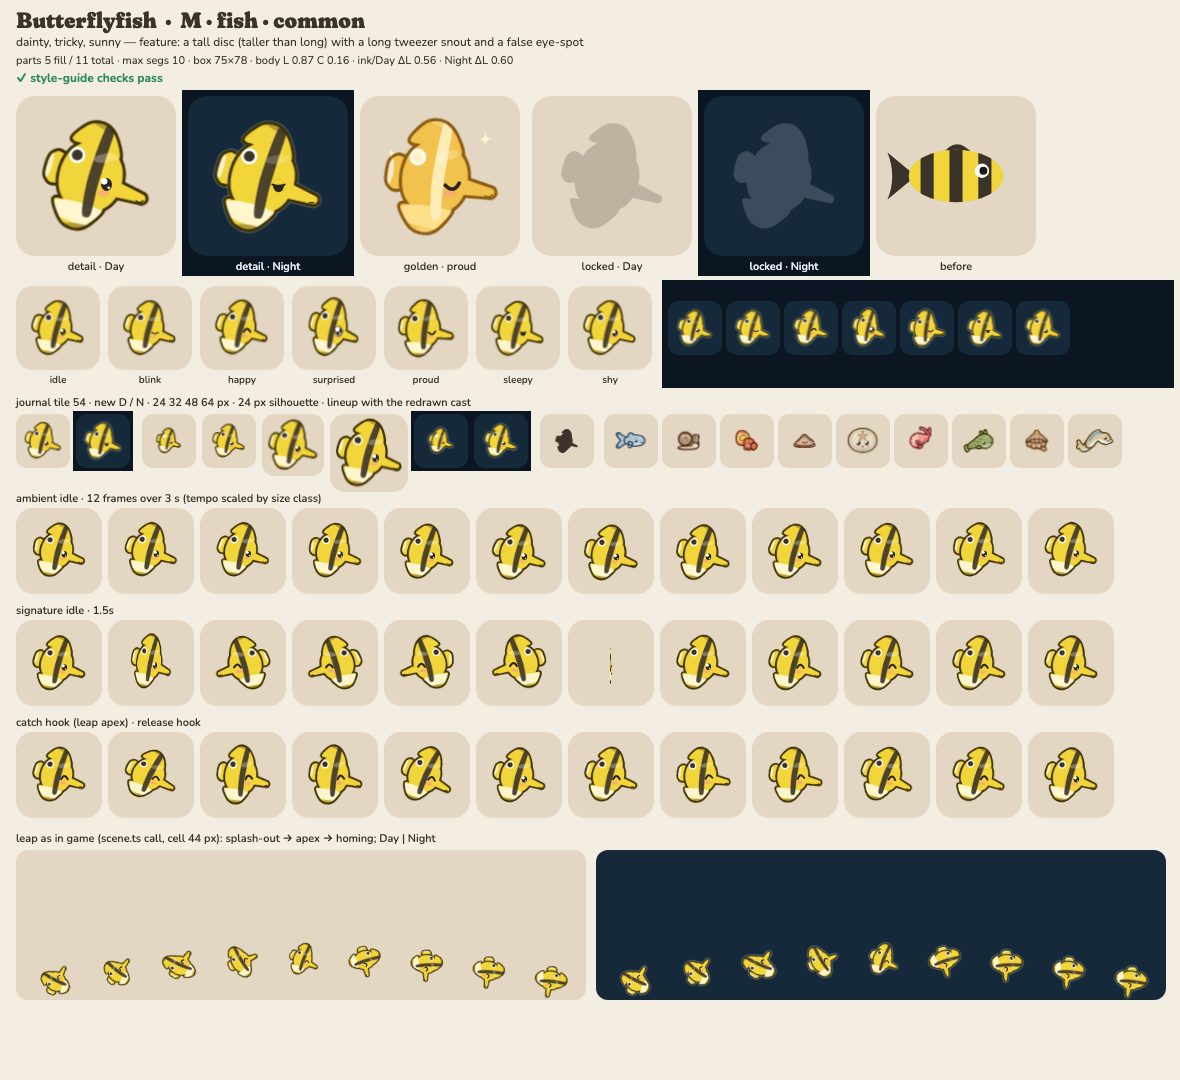
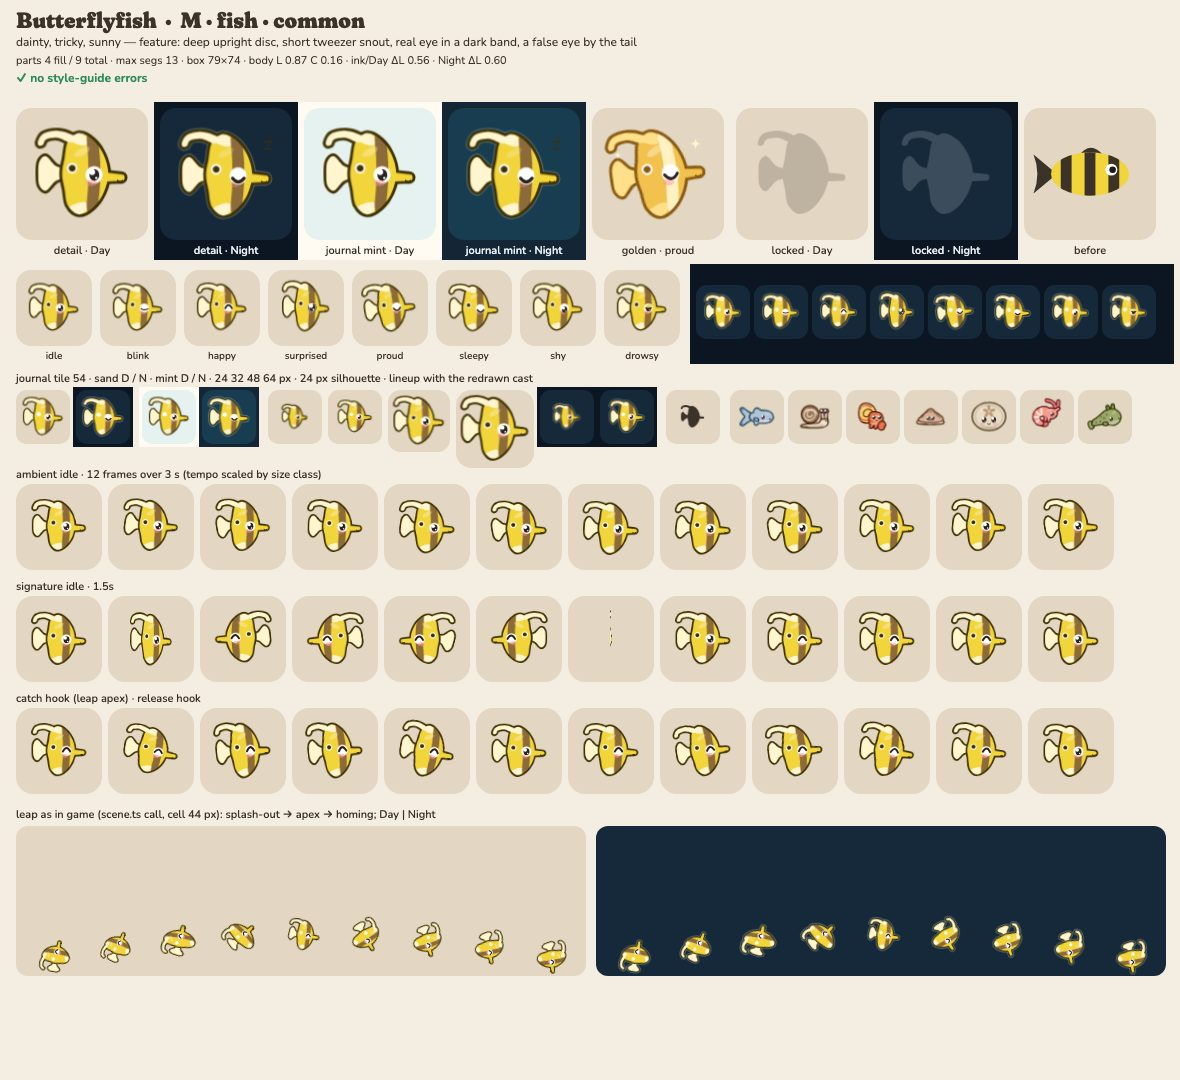
render: butterfly art redo — level upright disc, eye in the mask, false eye by the tail (ADR 0011)
CRITIQUE-1 D: level (1 deg), short straight tweezer snout, real eye in a white ring inside a mid-brown eye-band (not eye-coloured, R18E), pale fan tail on a narrow root, threadfin pennant, small ringed false eye near the tail. Lint clean. Closest: puffer 0.68, combjelly 0.67, damsel 0.66.

diff --git a/src/render/art/species/butterfly.ts b/src/render/art/species/butterfly.ts
@@ -1,132 +1,116 @@
 /**
- * Butterflyfish — the reef's little trickster (fish class, profile view).
- * Silhouette (R10): a disc taller than it is long (tall dorsal and anal fins), a long tweezer snout,
- * and a small rounded tail. The false eye-spot near the tail is the joke.
- * Personality: dainty, tricky, sunny. Signature: turns around to show off its false eye, turns back
- * and winks with the real one.
+ * Butterflyfish — the reef's little trickster (fish class, profile view, level).
+ * Silhouette (R10): a deep, upright disc (taller than long), a short straight tweezer snout, a narrow
+ * tail root and a clear pale fan tail. The real eye sits in a dark vertical eye-band (the classic
+ * mask) inside a white ring; a smaller ringed false eye near the tail is the joke.
+ * Personality: dainty, tricky, sunny. Signature: spins round to show the false eye, spins back and
+ * winks with the real one.
  */
-import { blob, capsule, circle, defineArt, ellipse, join, tube, xform } from '../kit.ts';
+import { blob, capsule, circle, defineArt, ellipse, join, tube } from '../kit.ts';
 
-// it hovers nose-down at a dainty TILT, tweezer snout picking at the reef: the pose that keeps the
-// tall disc apart from the sunfish and the round jellies at 24 px (R12)
-const TILT = 17;
-const R = (d: string) => xform(d, { rot: TILT });
-const tc = Math.cos((TILT * Math.PI) / 180),
-  ts = Math.sin((TILT * Math.PI) / 180);
-/** An anchor on the drawing grid, mapped like the paths. */
-const P = (x: number, y: number): [number, number] => [x * tc - y * ts, x * ts + y * tc];
-
-// the disc: a deep, nearly round body
-const body = blob([
-  [17, 0],
-  [13, -15],
-  [1, -25],
-  [-14, -26],
-  [-26, -16],
-  [-30, 0],
-  [-26, 16],
-  [-14, 26],
-  [1, 25],
-  [13, 15],
-]);
-// tall soft dorsal and anal fins, swept back: together the silhouette is taller than it is long
-const dorsal = blob(
+// the disc: deep and upright, soft dorsal/anal fins folded into one smooth outline
+const disc = blob(
   [
-    [9, -18],
-    [4, -32],
-    [-6, -40],
-    [-18, -38],
-    [-28, -24],
-    [-16, -22],
-  ],
-  0.95,
-);
-const anal = blob(
-  [
-    [8, 19],
-    [3, 32],
-    [-6, 39],
-    [-18, 37],
-    [-28, 23],
-    [-16, 21],
-  ],
-  0.95,
-);
-// the tweezer snout (rounded tip, R3)
-const snout = capsule(13, 3, 6, 34, 4, 3.2);
-const tail = blob(
-  [
-    [-27, -8],
-    [-34, -12],
-    [-39.5, -8],
-    [-40.5, 0],
-    [-39.5, 8],
-    [-34, 12],
-    [-27, 8],
-  ],
-  0.9,
-);
-// the eye band sits just behind the real eye; the small false eye near the tail is ringed in white
-const band = tube(
-  [
-    [-3, -38, 3.4],
-    [-4, -16, 4.2],
-    [-4, 6, 4.2],
-    [-2, 26, 3.4],
+    [18, 0],
+    [14, -17],
+    [4, -31],
+    [-9, -37],
+    [-19, -29],
+    [-22, -14],
+    [-24, -4],
+    [-24, 4],
+    [-22, 14],
+    [-19, 29],
+    [-9, 37],
+    [4, 31],
+    [14, 17],
   ],
   1,
 );
-const falseRing = circle(-21, -13, 6);
-const falseEye = circle(-21, -13, 4);
+// the threadfin's pennant: one plump filament trailing off the rear dorsal corner (rounded tip)
+const filament = tube(
+  [
+    [-16, -32, 3.6],
+    [-28, -36, 3.2],
+    [-40, -34, 3],
+    [-44, -28, 2.8],
+  ],
+  1,
+);
+// the short straight tweezer snout (rounded tip, R3)
+const snout = capsule(15, 3, 4.2, 30, 3.5, 3);
+// narrow tail root, then a clear fan tail in the pale fin colour
+const tail = blob(
+  [
+    [-21, -3.5],
+    [-30, -7],
+    [-39, -16],
+    [-45, -11],
+    [-46, 0],
+    [-45, 11],
+    [-39, 16],
+    [-30, 7],
+    [-21, 3.5],
+  ],
+  0.95,
+);
+// the eye-band: a vertical mask through the eye, mid-dark (never eye-coloured, R18E)
+const band = tube(
+  [
+    [3, -34, 4.6],
+    [5, -14, 5.4],
+    [5, 10, 5.4],
+    [3, 32, 4.6],
+  ],
+  1,
+);
+// white ring so the real eye pops out of its mask
+const ring = circle(5, 1, 7.8);
+// pale fin margins top and bottom at the back (they read as the soft dorsal/anal fins)
+const fins = join(ellipse(-12, -34, 13, 6, 30), ellipse(-12, 34, 13, 6, -30));
+// the false eye near the tail: a small dark dot in a pale ring
+const falseRing = circle(-15, -5, 4.8);
+const falseEye = circle(-15, -5, 3.1);
 
 export default defineArt({
   id: 'butterfly',
   klass: 'fish',
   size: 'M',
-  feature: 'a tall disc (taller than long) with a long tweezer snout and a false eye-spot',
+  feature: 'deep upright disc, short tweezer snout, real eye in a dark band, a false eye by the tail',
   personality: ['dainty', 'tricky', 'sunny'],
-  palette: { body: '#F2D43B', accent: '#3B3229' },
+  palette: { body: '#F2D43B', accent: '#8C6A3A', belly: '#FFF6D0' },
   groups: [
     {
       id: 'tail',
-      pivot: P(-27, 0),
-      parts: [
-        { d: R(tail), role: 'body' },
-        { d: R(ellipse(-40.5, 0, 4, 12)), role: 'white', kind: 'pattern', alpha: 0.7 },
-      ],
+      pivot: [-24, 0],
+      parts: [{ d: tail, role: 'belly' }],
     },
     {
       id: 'body',
       parts: [
-        { d: R(dorsal), role: 'body' },
-        { d: R(anal), role: 'body' },
-        { d: R(body), role: 'body' },
-        { d: R(snout), role: 'body' },
-        { d: R(ellipse(-6, 28, 26, 8)), role: 'belly', kind: 'pattern' },
-        { d: R(band), role: 'accent', kind: 'pattern', alpha: 0.9 },
-        { d: R(falseRing), role: 'white', kind: 'pattern' },
-        { d: R(falseEye), role: 'accent', kind: 'pattern' },
-        {
-          d: R(join(ellipse(-8, -41, 14, 4, 14), ellipse(-8, 40, 13, 4, -14))),
-          role: 'accent',
-          kind: 'pattern',
-          alpha: 0.35,
-        },
+        { d: disc, role: 'body' },
+        { d: snout, role: 'body' },
+        { d: filament, role: 'belly', extra: true },
+        { d: fins, role: 'belly', kind: 'pattern' },
+        { d: band, role: 'accent', kind: 'pattern' },
+        { d: ring, role: 'white', kind: 'pattern' },
+        { d: falseRing, role: 'white', kind: 'pattern' },
+        { d: falseEye, role: 'ink', kind: 'pattern' },
       ],
     },
   ],
-  shine: R(ellipse(0, -17, 9, 3.4, -24)),
+  shine: ellipse(-6, -20, 8, 3.4, -28),
   face: {
-    eyes: [P(6, 1.5)],
-    eye: 9.5,
-    zone: [-8, -24, 41, 46],
-    mouth: { at: P(33, 6), w: 5, shape: 'smile' },
+    eyes: [[5, 1]],
+    eye: 10.6,
+    zone: [-8, -25, 38, 46],
+    mouth: { at: [28.5, 6], w: 4.6, shape: 'smile' },
     sweet: true,
   },
   idle: {
     ambient: [
       { m: 'bob', amp: 2.5, period: 2.6 },
-      { m: 'wag', g: 'tail', amp: 8, period: 0.9 },
+      { m: 'wag', g: 'tail', amp: 10, period: 0.8 },
       { m: 'breathe', amp: 0.015, period: 2.6 },
     ],
     signature: {
@@ -148,8 +132,9 @@ export default defineArt({
           p: 'ty',
           k: [
             [0, 0],
-            [0.1, -3],
-            [0.2, 0],
+            [0.06, 2],
+            [0.16, -3],
+            [0.3, 0],
             [0.56, -3],
             [0.68, 0],
           ],
